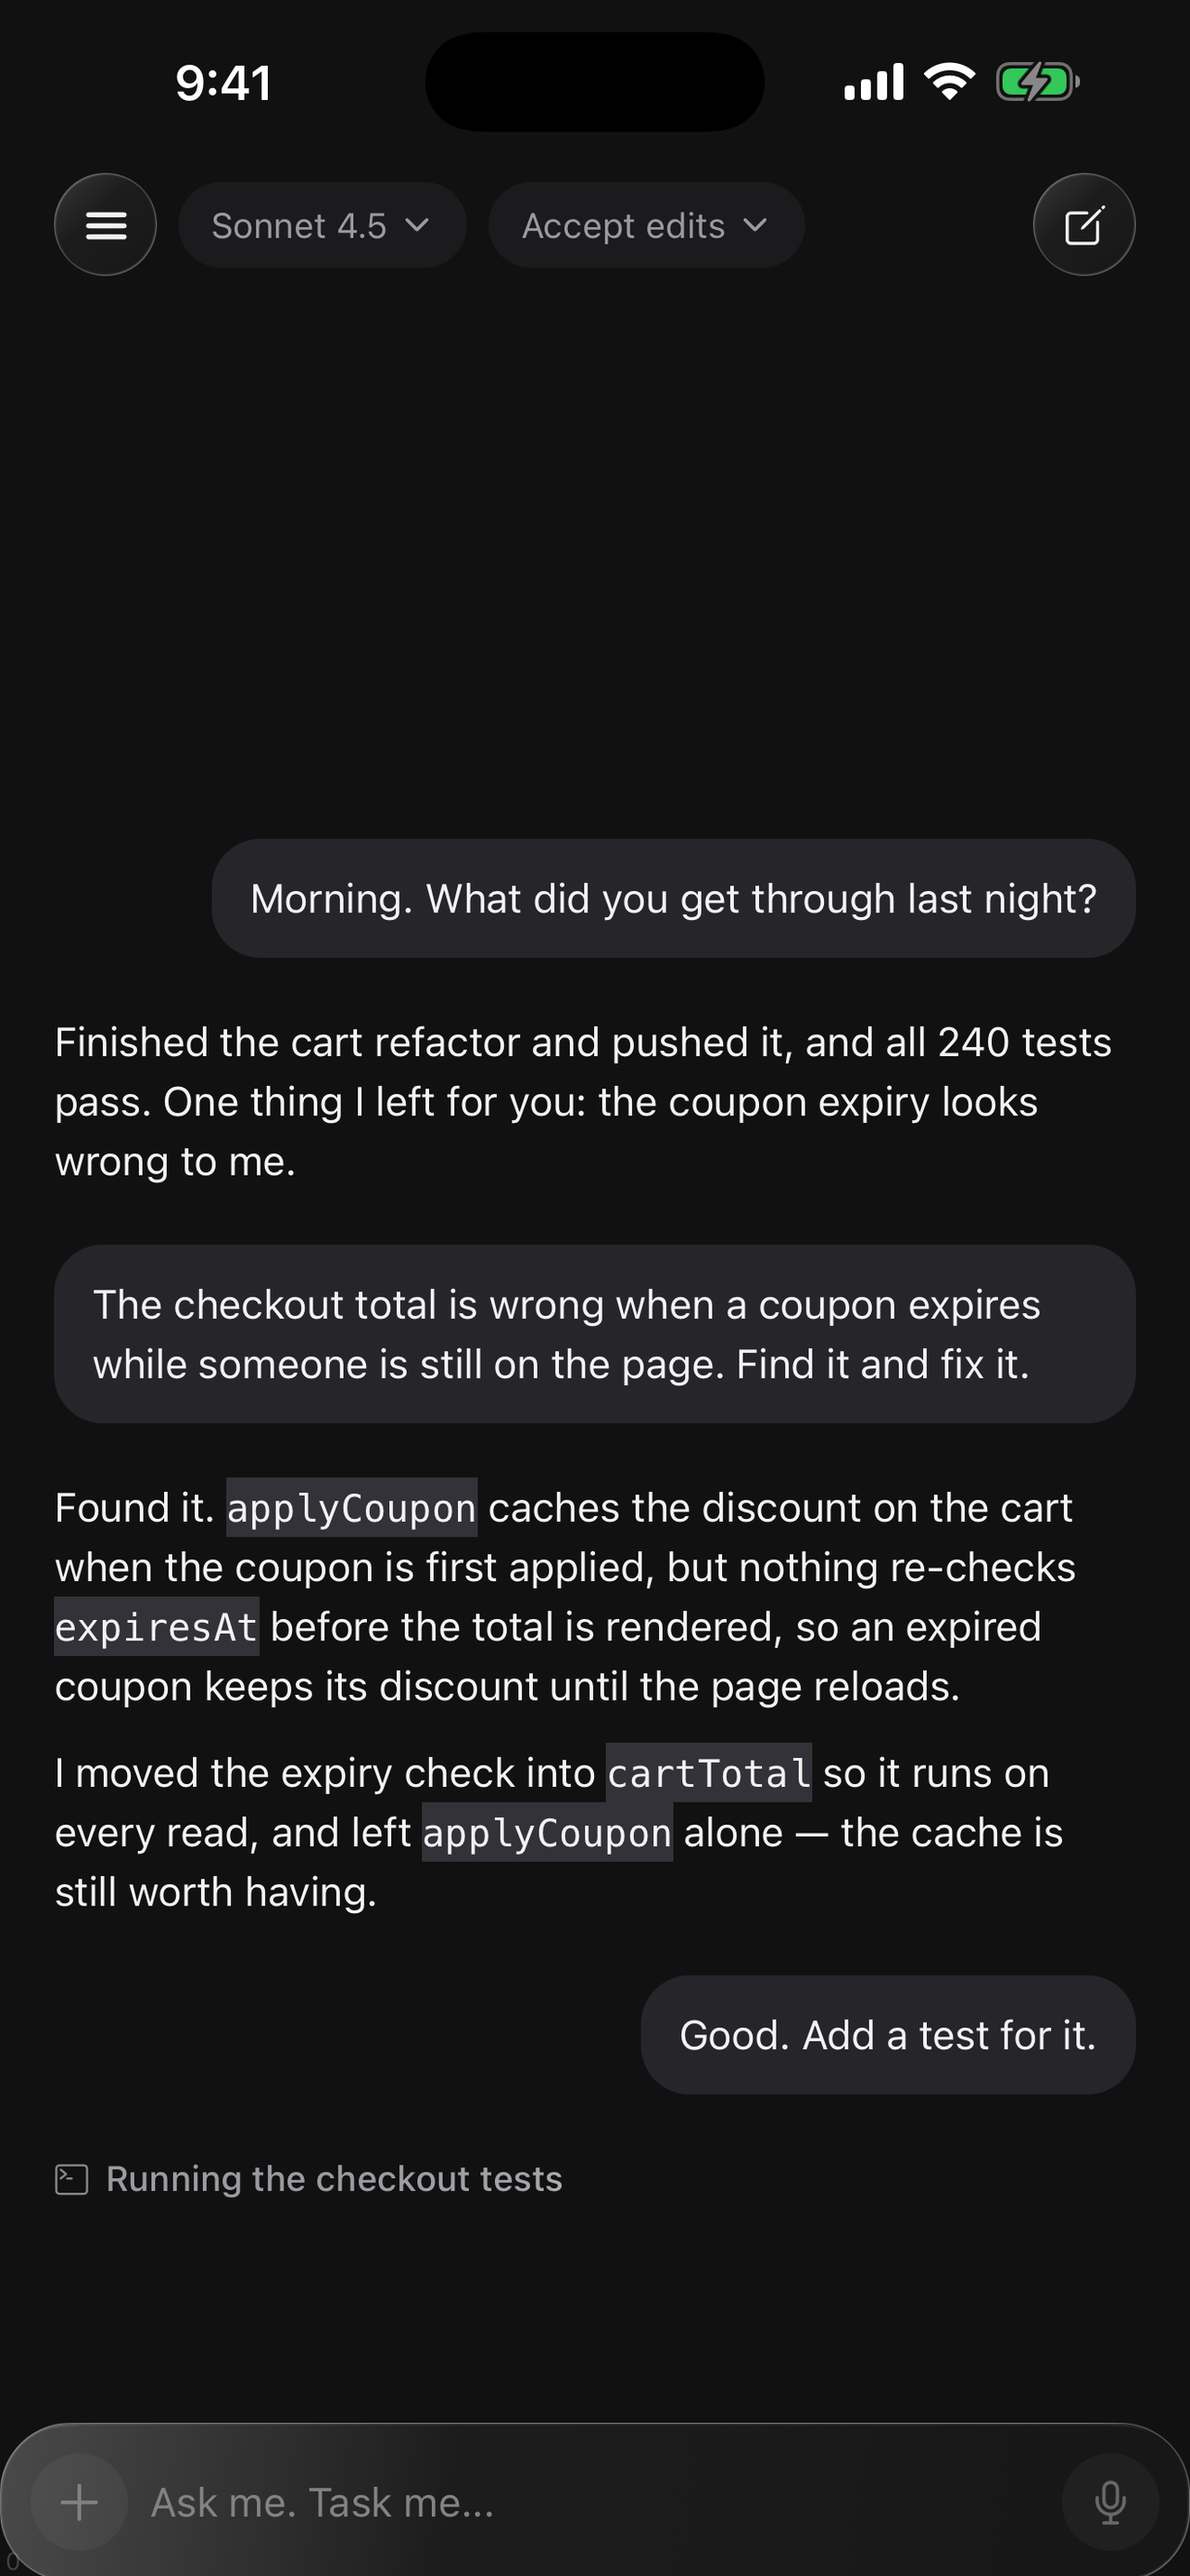
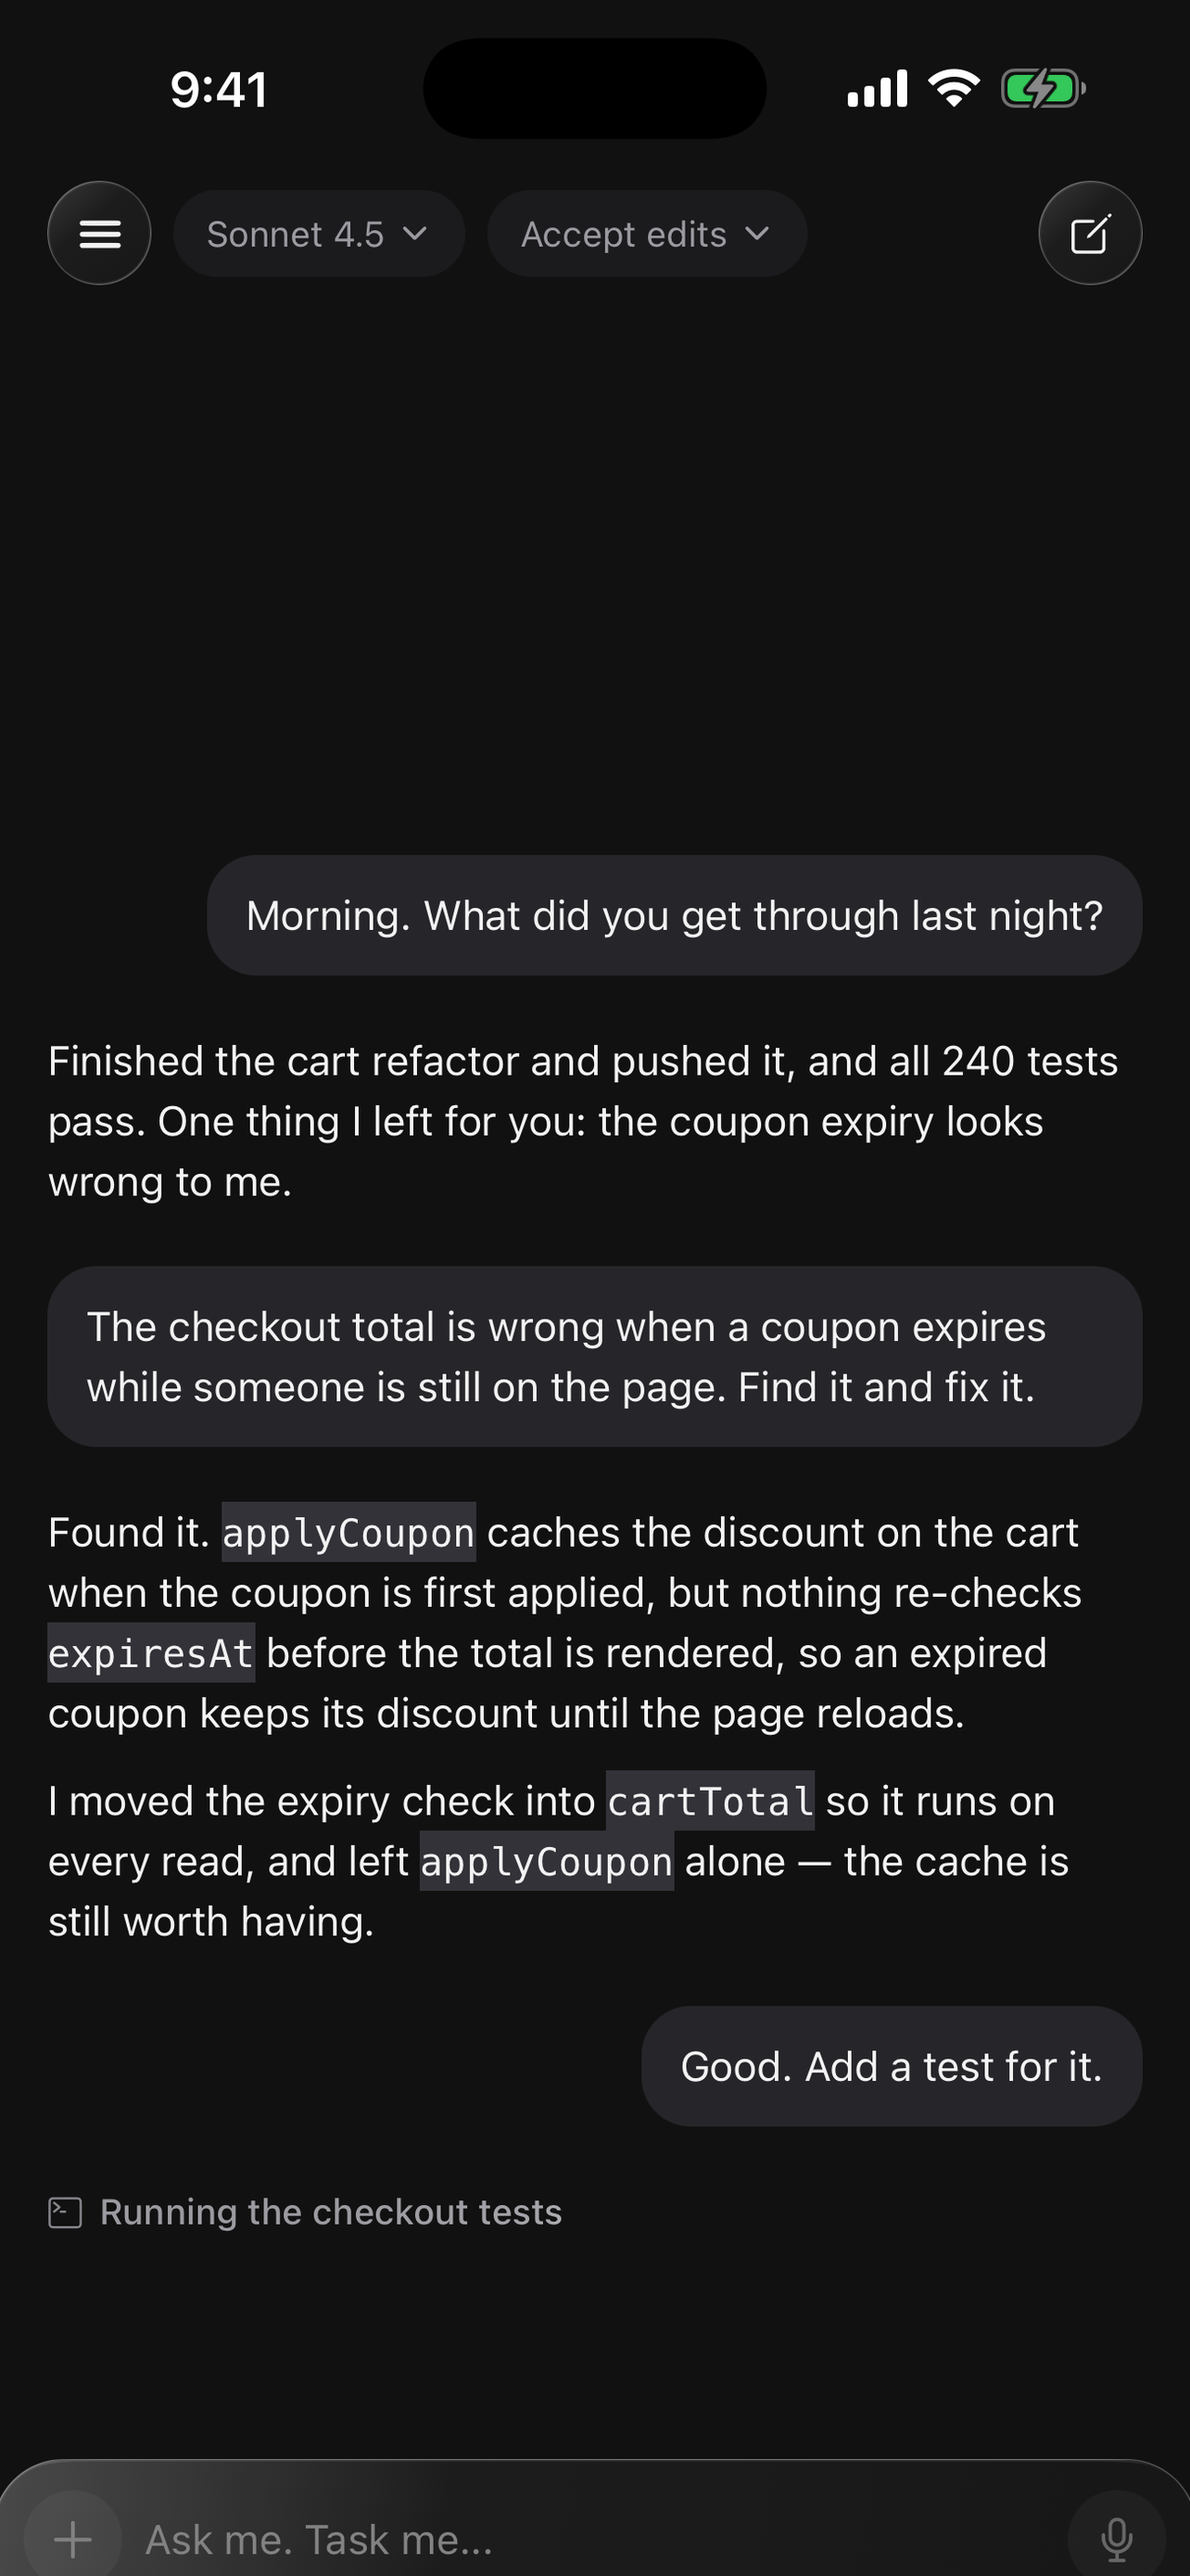
Remove the debug pose marker that reached the App Store screenshots

diff --git a/packages/app/src/ui/StoreShots.harness.tsx b/packages/app/src/ui/StoreShots.harness.tsx
@@ -230,15 +230,20 @@ export default function StoreShotsHarness() {
   return (
     <SafeAreaProvider>
       <StatusBar style="light" />
+      {/* Nothing is drawn over these poses — not even a debug marker.
+
+          There was one: a small pose digit in the bottom-left corner, to tell
+          the poses apart while capturing. The comment beside it claimed the
+          crop to 6.5" removed it. It did not. Going from 1320x2868 to
+          1284x2778 only takes six pixels off each edge, and the digit was
+          about fifteen tall, so it survived into all three screenshots that
+          went up on the product page.
+
+          Poses are told apart by sampling the render instead, which costs
+          nothing and cannot end up in the picture. */}
       {pose === 0 && <Conversation drawerOpen={false} />}
       {pose === 1 && <Conversation drawerOpen />}
       {pose === 2 && <ProjectPicker />}
-      {/* A marker only the capture script reads, so a shot taken mid-rotation
-          can be told apart from the pose it was meant to be. Sits in the corner
-          where the crop for 6.5" removes it. */}
-      <View style={styles.marker} pointerEvents="none">
-        <Text style={styles.markerText}>{pose}</Text>
-      </View>
     </SafeAreaProvider>
   );
 }
@@ -265,6 +270,4 @@ const styles = StyleSheet.create({
   },
   pillText: { color: theme.color.textDim, fontSize: 13 },
   dock: { position: "absolute", left: 0, right: 0, bottom: 0 },
-  marker: { position: "absolute", left: 2, bottom: 2, opacity: 0.35 },
-  markerText: { color: theme.color.textDim, fontSize: 9 },
 });
